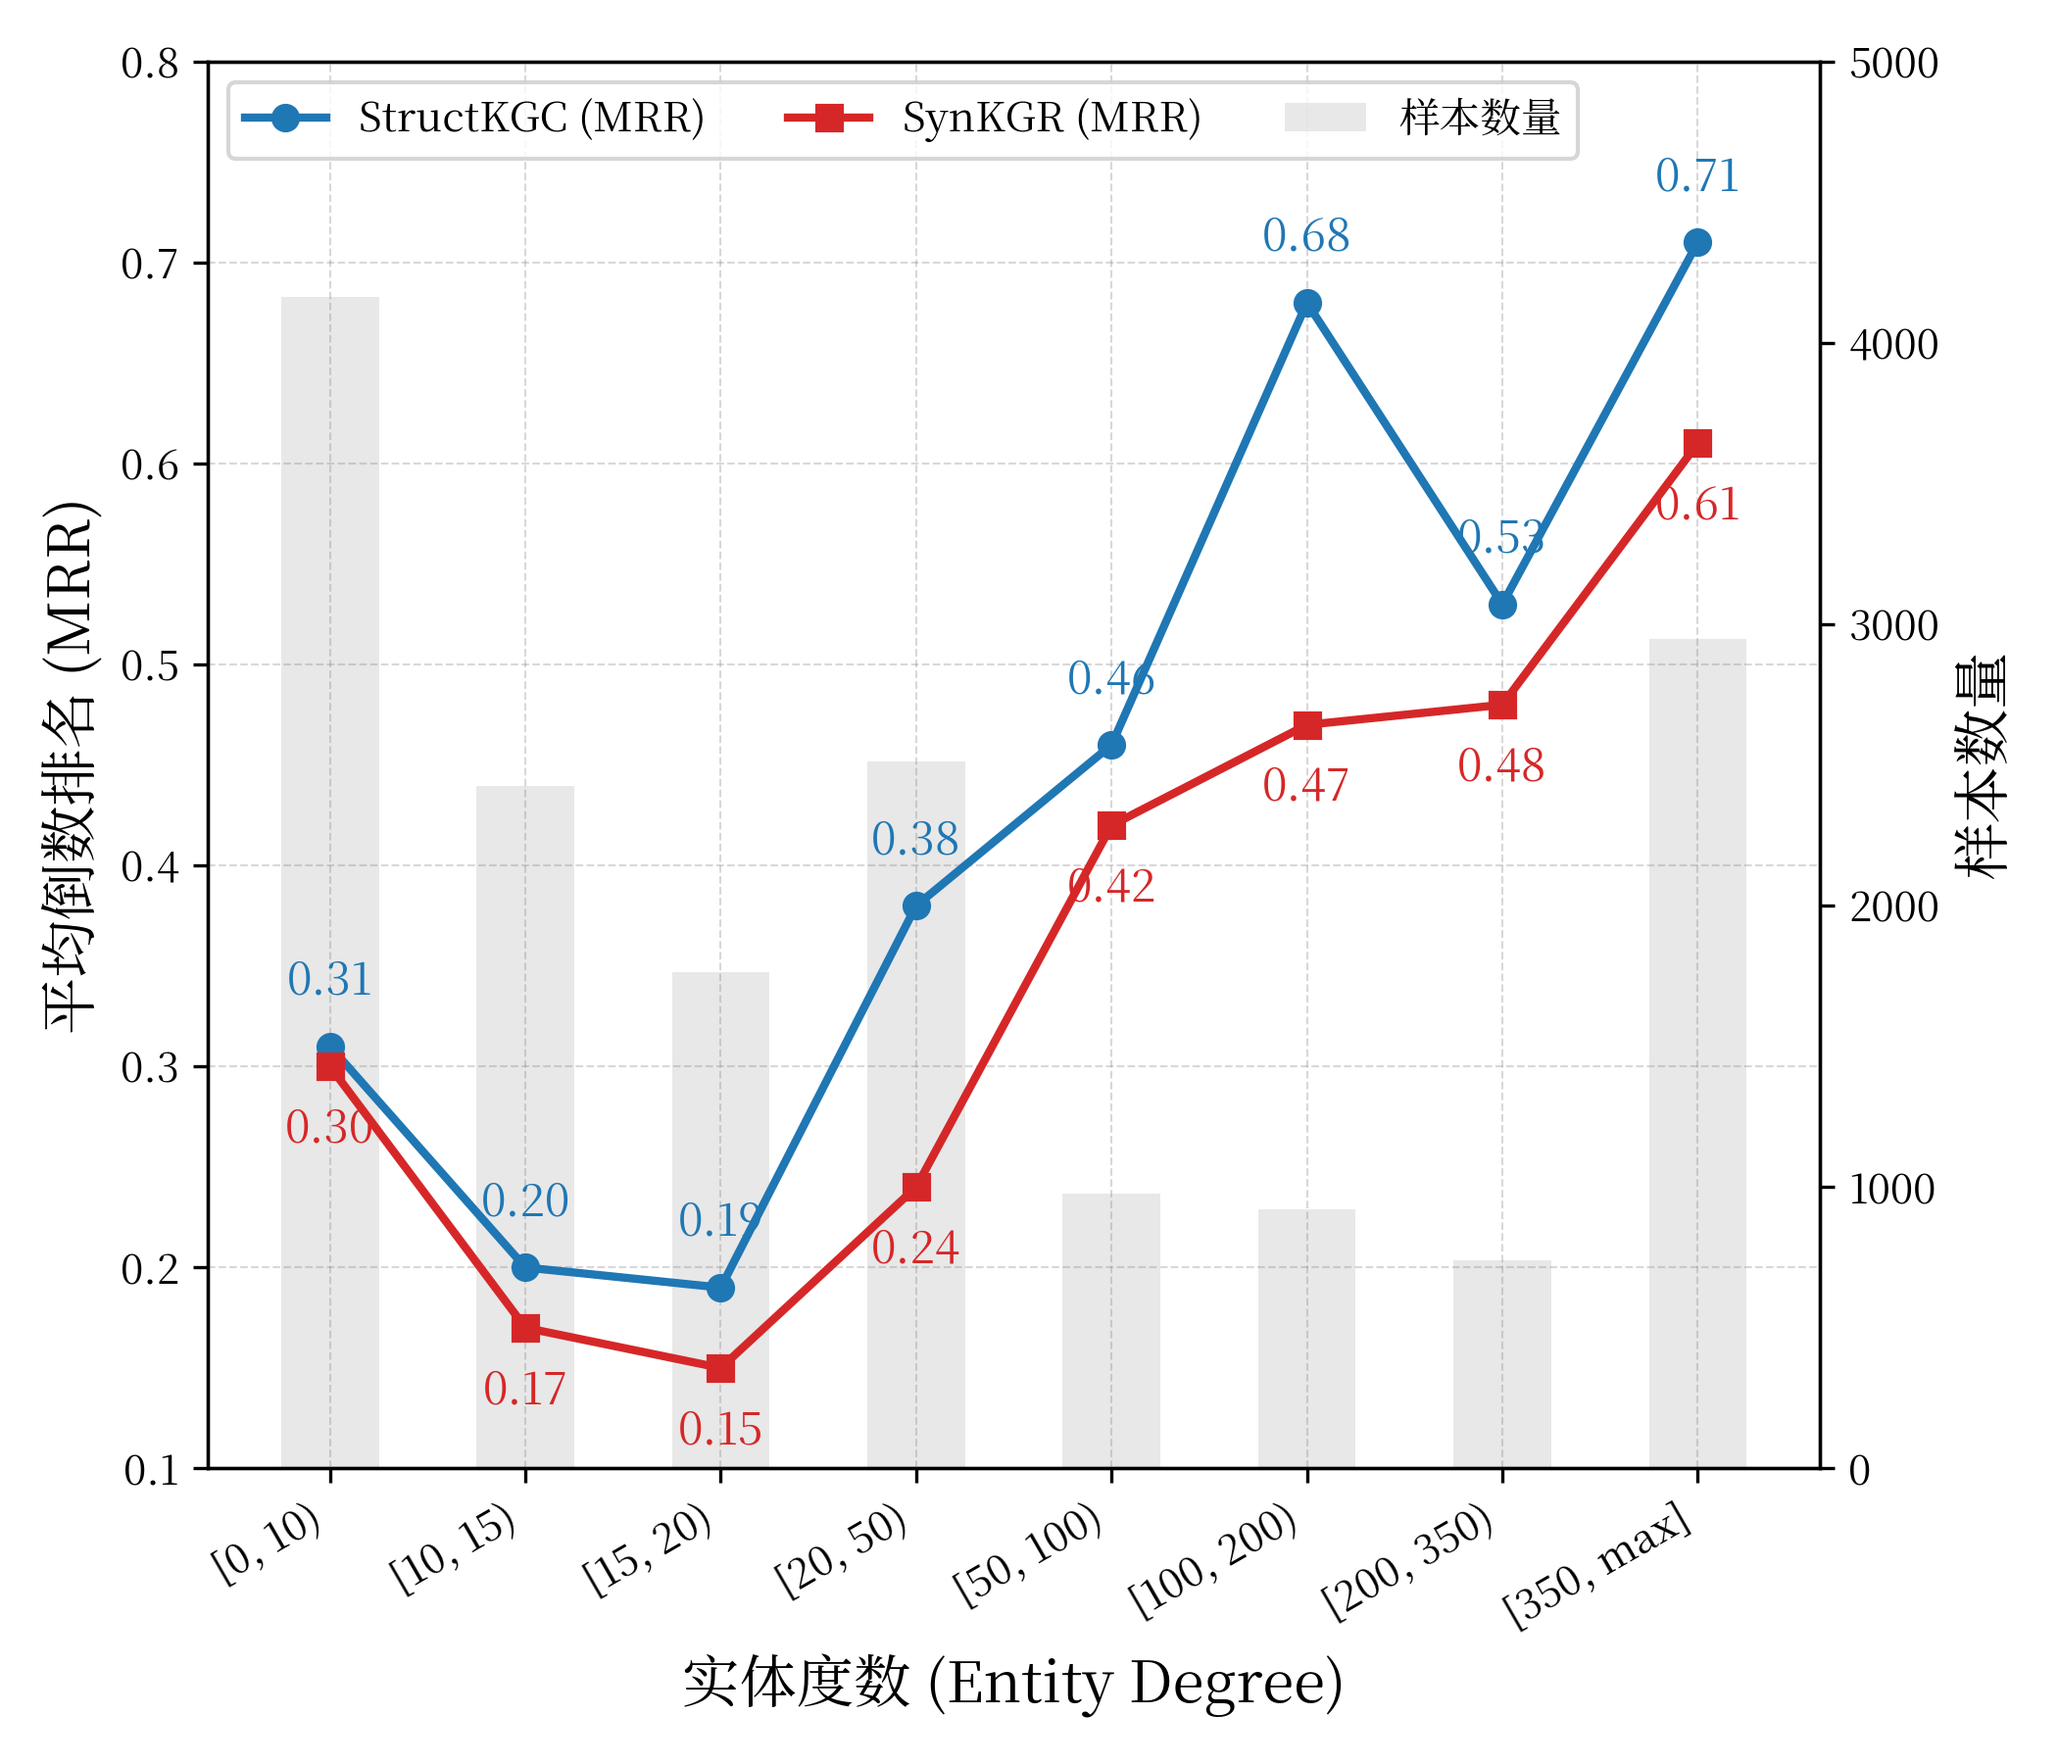
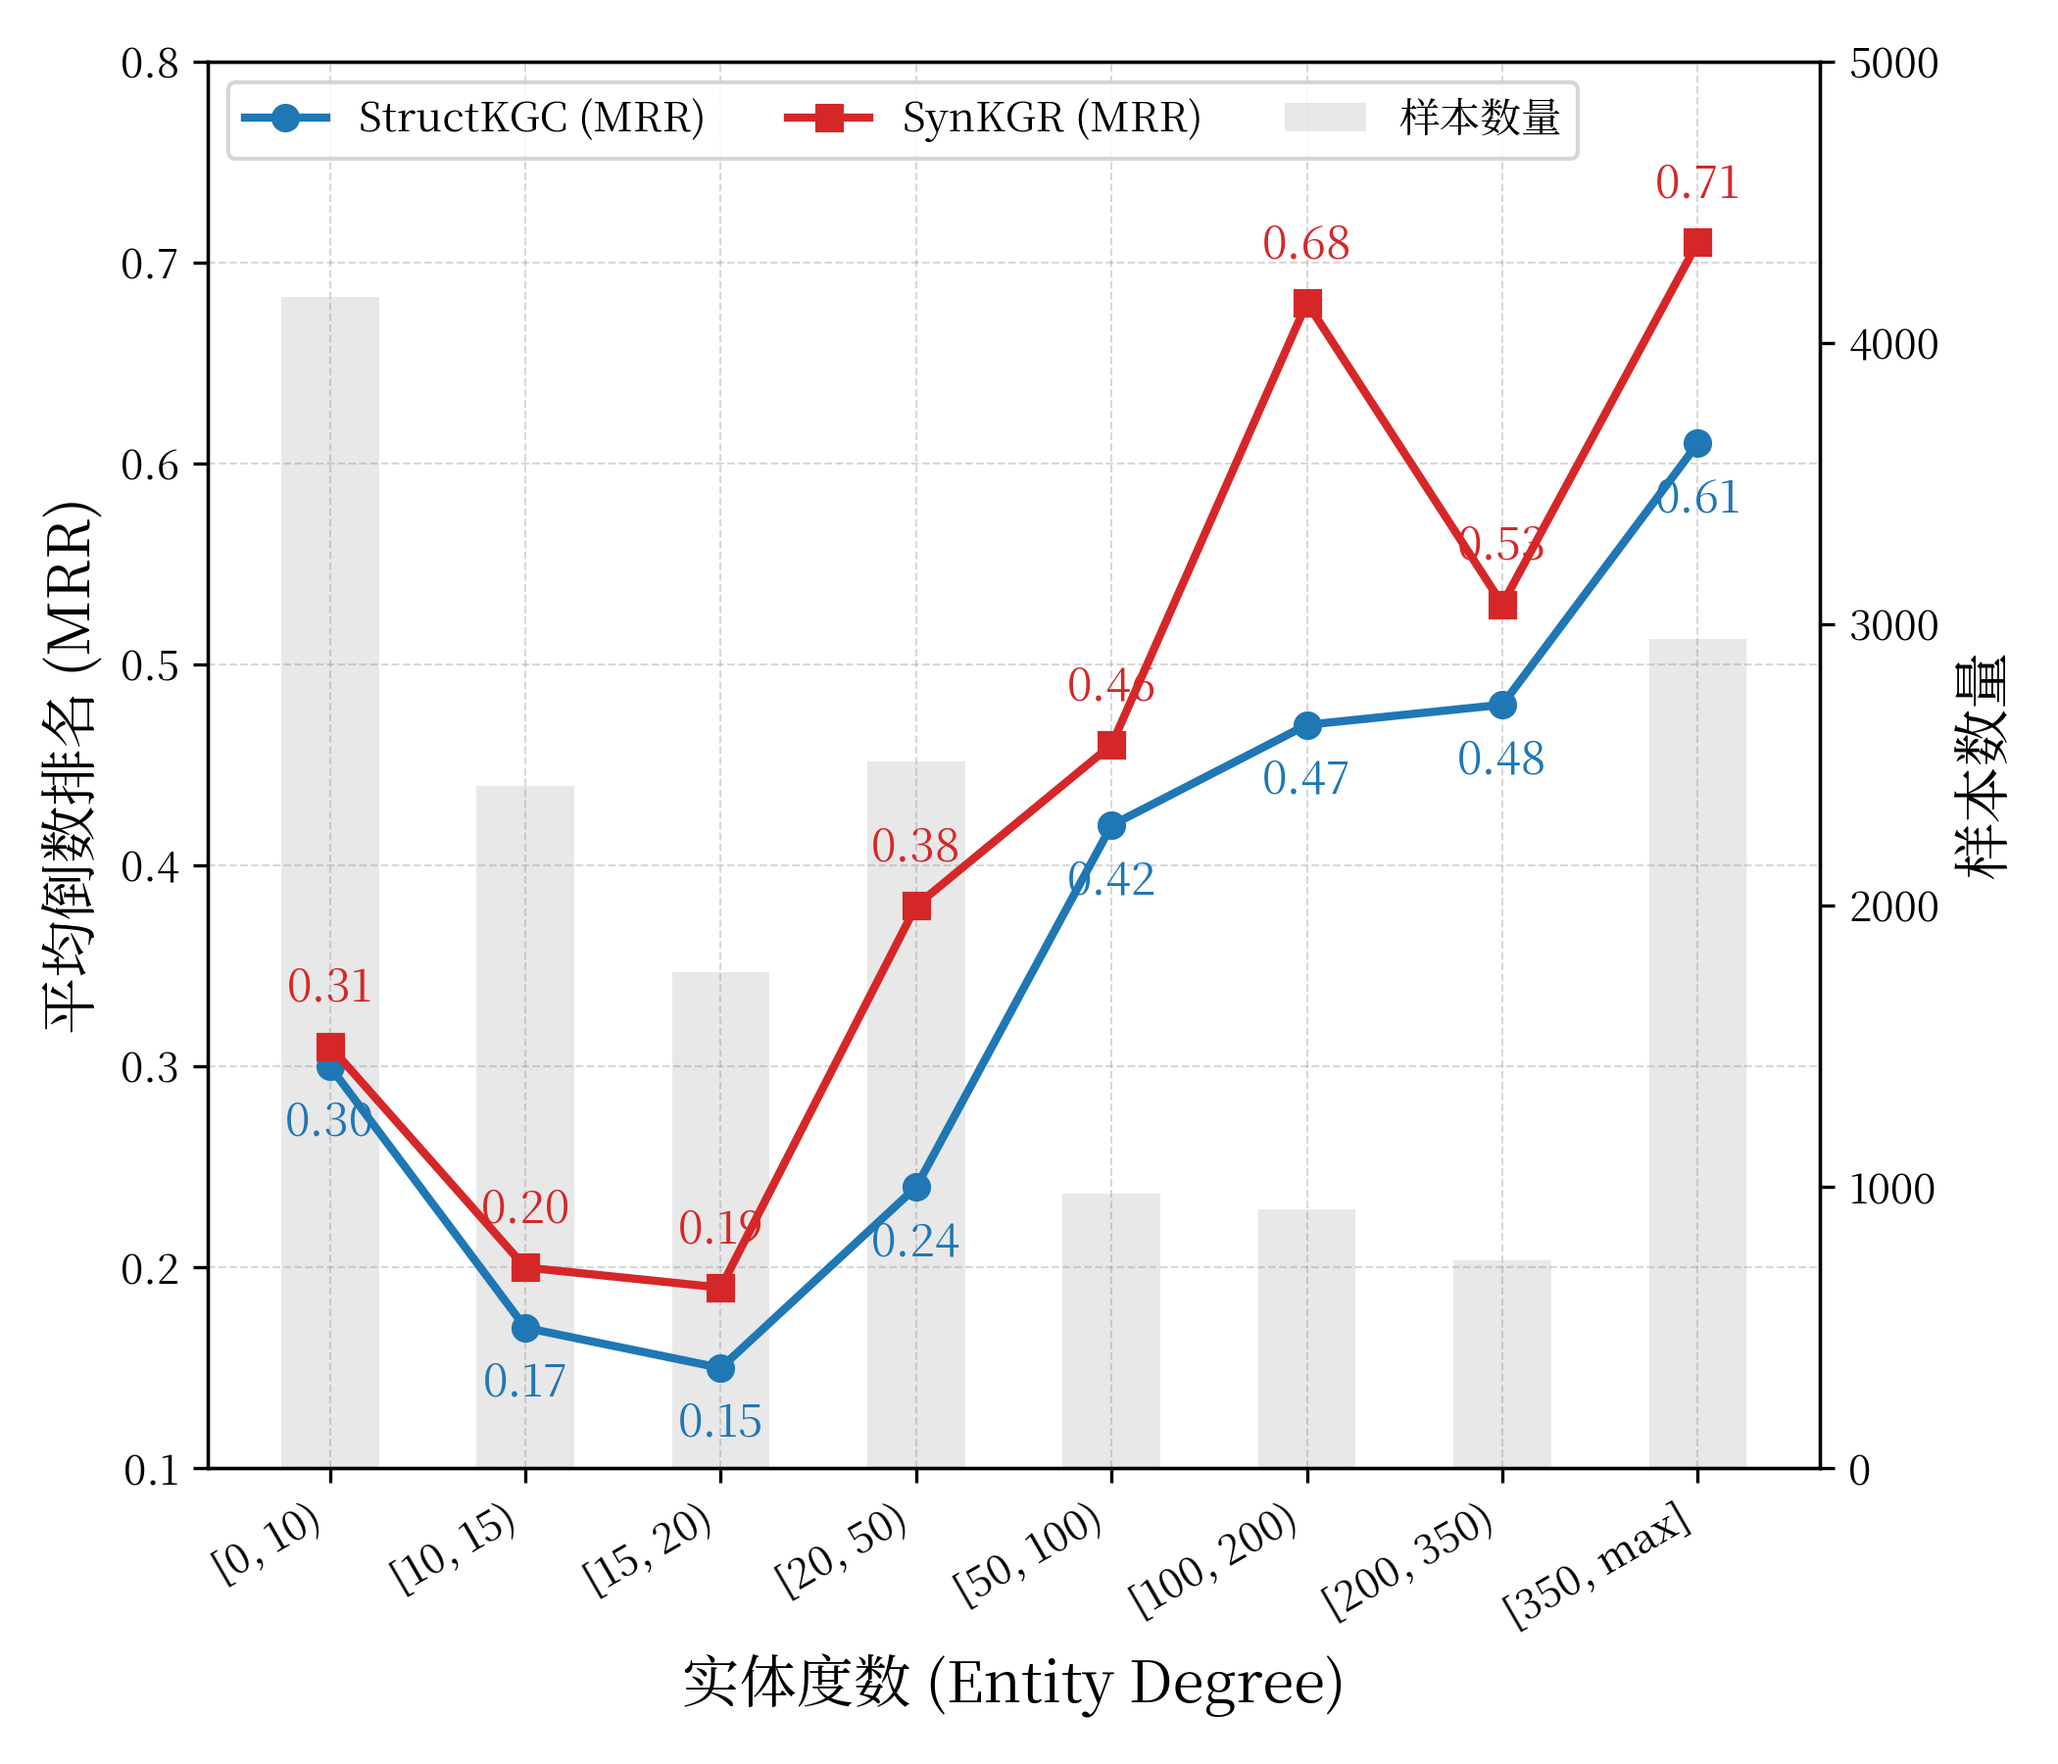
修正图线标记

diff --git a/loss_restraint_KGE_model/plot_entity_type_test.py b/loss_restraint_KGE_model/plot_entity_type_test.py
@@ -49,11 +49,11 @@ degree_of_entities = [
 # 样本数量
 samples = [4163, 2426, 1763, 2514, 977, 921, 741, 2947]
 
-# StructKGC MRR
-structkgc_mrr = [0.31, 0.20, 0.19, 0.38, 0.46, 0.68, 0.53, 0.71]
-
 # SynKGR MRR
-synkgr_mrr = [0.30, 0.17, 0.15, 0.24, 0.42, 0.47, 0.48, 0.61]
+synkgr_mrr = [0.31, 0.20, 0.19, 0.38, 0.46, 0.68, 0.53, 0.71]
+
+# StructKGC MRR
+structkgc_mrr = [0.30, 0.17, 0.15, 0.24, 0.42, 0.47, 0.48, 0.61]
 
 # --- 3. 绘图 ---
 fig, ax1 = plt.subplots(figsize=(7, 6))
@@ -74,12 +74,12 @@ ax1.patch.set_visible(False)
 
 # --- 数值标签 (微调偏移量以防重叠) ---
 for x, y in zip(degree_of_entities, structkgc_mrr):
-    # 蓝色向上偏移
-    ax1.text(x, y + 0.02, f'{y:.2f}', ha='center', va='bottom', color='tab:blue', fontsize=11, zorder=11)
+    # 蓝色向下偏移
+    ax1.text(x, y - 0.04, f'{y:.2f}', ha='center', va='bottom', color='tab:blue', fontsize=11, zorder=11)
 
 for x, y in zip(degree_of_entities, synkgr_mrr):
-    # 红色向下偏移 (尤其是第一个点 0.30 不再遮挡 0.31)
-    ax1.text(x, y - 0.02, f'{y:.2f}', ha='center', va='top', color='tab:red', fontsize=11, zorder=11)
+    # 红色向上偏移
+    ax1.text(x, y + 0.04, f'{y:.2f}', ha='center', va='top', color='tab:red', fontsize=11, zorder=11)
 
 # 设置标签和范围
 ax1.set_xlabel('实体度数 (Entity Degree)', fontsize=14)
